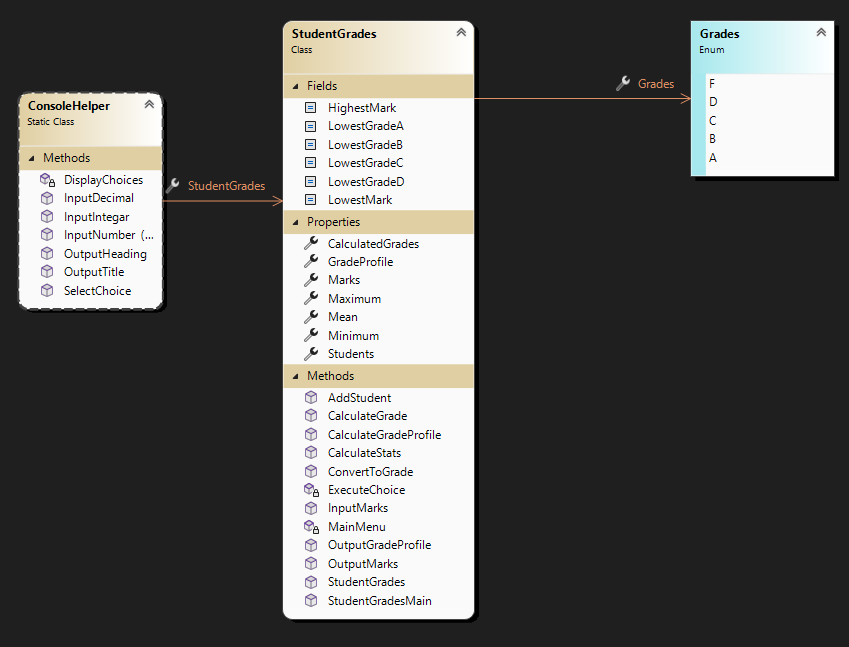
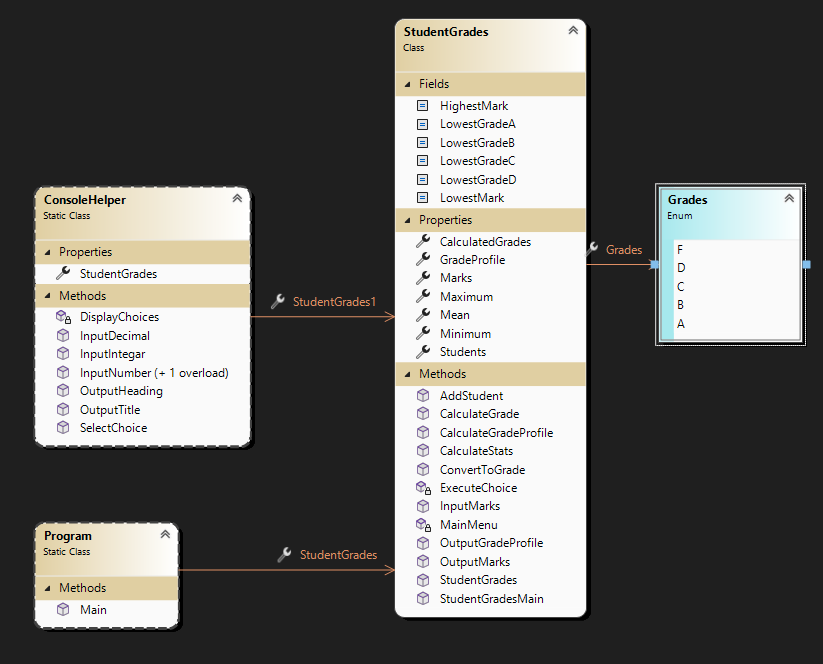
-Class diagram corrected.

diff --git a/ConsoleAppProject/App03/StudentGrades.cs b/ConsoleAppProject/App03/StudentGrades.cs
@@ -27,7 +27,16 @@ namespace ConsoleAppProject.App03
         public Grades[] CalculatedGrades { get; set; }
         public double Mean { get; set; }
         public int Minimum { get; set; }
-        public int Maximum { get; set; }         
+        public int Maximum { get; set; }
+
+        public Grades Grades
+        {
+            get => default;
+            set
+            {
+            }
+        }
+
         /// <summary>
         /// Class Constructor called when an object 
         /// is created and sets up an array of students.

diff --git a/ConsoleAppProject/Program.cs b/ConsoleAppProject/Program.cs
@@ -15,7 +15,15 @@ namespace ConsoleAppProject
     /// Derek Peacock 05/02/2022
     /// </summary>
     public static class Program
-    {   
+    {
+        public static StudentGrades StudentGrades
+        {
+            get => default;
+            set
+            {
+            }
+        }
+
         ///This is the main method fo the program.
         ///This method outputs the heading and displays the main menu.
         ///The main menu displays the choices and prompts the user to 

diff --git a/ConsoleAppProject/Helpers/ConsoleHelper.cs b/ConsoleAppProject/Helpers/ConsoleHelper.cs
@@ -24,6 +24,14 @@ namespace ConsoleAppProject.Helpers
             }
         }
 
+        public static App03.StudentGrades StudentGrades1
+        {
+            get => default;
+            set
+            {
+            }
+        }
+
         /// <summary>
         /// This method displays a list of numbered choices to the
         /// user, they can then select a choice and and the choice 
